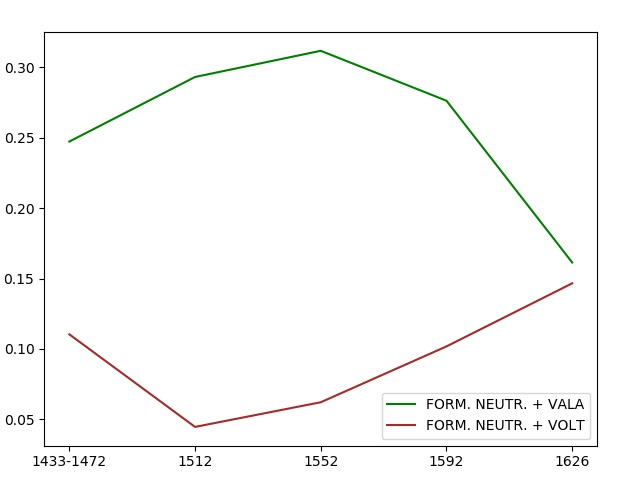
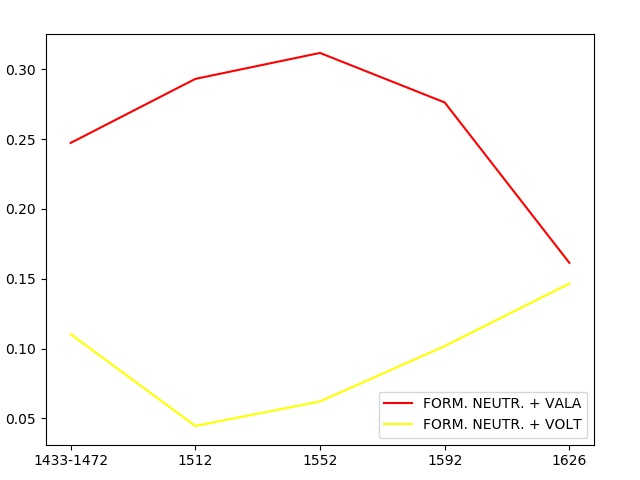
[cos] szincsere a vala/volt diagrammoknak

diff --git a/scripts/create_plot.py b/scripts/create_plot.py
@@ -12,8 +12,8 @@ LINES = {'inform.':
                   {'vala': ('green', '-'),
                    'volt': ('brown', '-')},
               'neutr.':
-                  {'vala': ('green', '-'),
-                   'volt': ('brown', '-')}},
+                  {'vala': ('red', '-'),
+                   'volt': ('yellow', '-')}},
          'form.':
              {'perf.':
                   {'vala': ('red', '--'),
@@ -22,8 +22,8 @@ LINES = {'inform.':
                   {'vala': ('green', '--'),
                    'volt': ('brown', '--')},
               'neutr.':
-                  {'vala': ('green', '-'),
-                   'volt': ('brown', '-')}}}
+                  {'vala': ('red', '-'),
+                   'volt': ('yellow', '-')}}}
 
 
 def read(inp):
